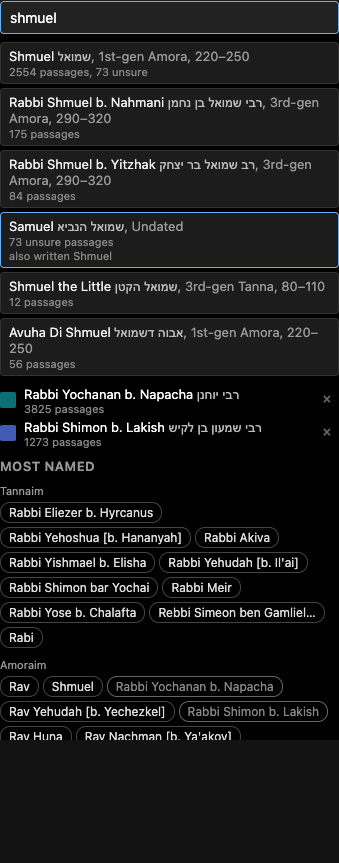
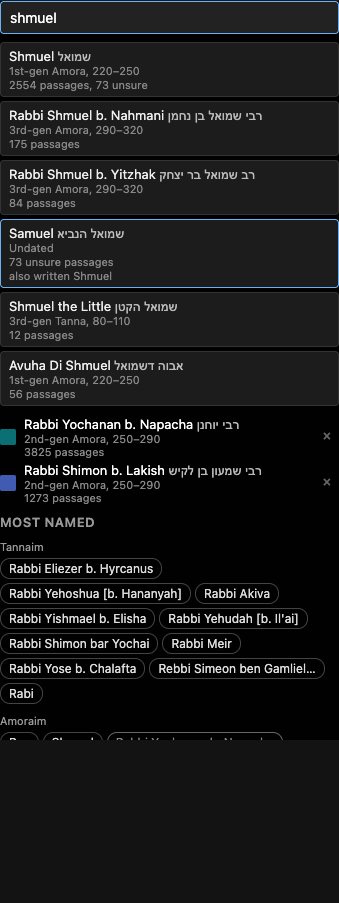
Rabbis: each rabbi in a list on lines of his own: names, then generation and years under them
Claude-Session: https://claude.ai/code/session_01JckPyF13gcGBKhw8FRw4BC

Changed region(s): [[0.0, 0.0, 1.0, 0.8737], [0.7375, 0.482, 0.767, 0.5423]]

diff --git a/apps/talmud/src/overlays/rabbis.ts b/apps/talmud/src/overlays/rabbis.ts
@@ -118,12 +118,13 @@ export function rabbisOverlay(
     });
   }
 
-  /** A rabbi as every list of rabbis shows him: his names, then his generation and years. */
+  /** A rabbi as every list of rabbis shows him: his names on one line, his generation and years under it. */
   const rabbiLine = (rabbi: Rabbi, dating: TalmudDating): HTMLElement => {
     const line = document.createElement('span');
     line.className = 'rabbi-line';
-    line.append(span('rabbi-en', rabbi.en), ' ', span('rabbi-he', rabbi.he, 'he'));
-    line.append(span('rabbi-era-line', `, ${eraLine(rabbi, dating)}`));
+    const names = span('', '');
+    names.append(span('rabbi-en', rabbi.en), ' ', span('rabbi-he', rabbi.he, 'he'));
+    line.append(names, span('rabbi-meta', eraLine(rabbi, dating)));
     return line;
   };
 

diff --git a/apps/talmud/src/overlays/rabbis.css b/apps/talmud/src/overlays/rabbis.css
@@ -42,10 +42,10 @@
   color: #bbb;
 }
 
-.rabbi-era-line {
-  color: #999;
-  direction: ltr;
-  unicode-bidi: isolate;
+.rabbi-line {
+  display: flex;
+  flex-direction: column;
+  align-items: flex-start;
 }
 
 .rabbi-meta {
